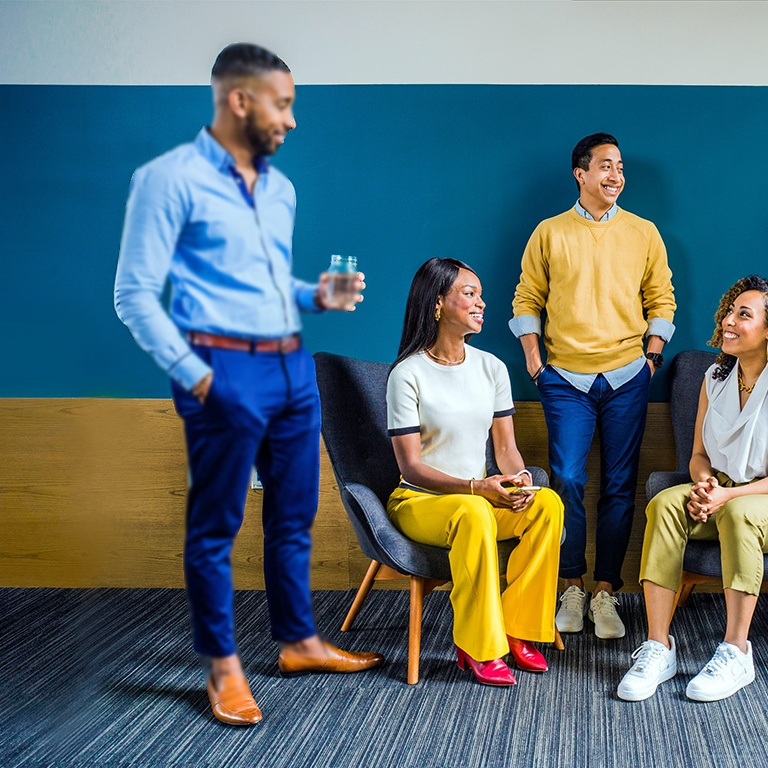
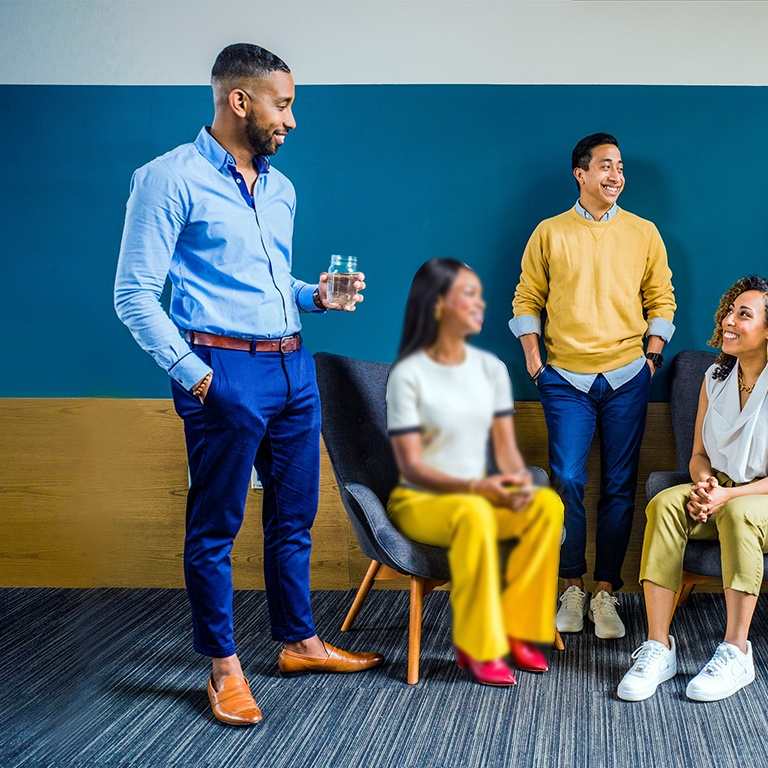
updated blending

diff --git a/base.py b/base.py
@@ -146,30 +146,32 @@ def pyramid(img_a, img_b, m):
     img1 = img_a[:size, :size].copy()
     img2 = img_b[:size, :size].copy()
 
-    # Create the mask
-
     mask = m[:size, :size].copy() / 255
 
-    num_levels = 5
+    num_levels = 7
 
-    # For image-1, calculate Gaussian and Laplacian
     gaussian_pyr_1 = gaussian_pyramid(img1, num_levels)
     laplacian_pyr_1 = laplacian_pyramid(gaussian_pyr_1)
-    # For image-2, calculate Gaussian and Laplacian
+
     gaussian_pyr_2 = gaussian_pyramid(img2, num_levels)
     laplacian_pyr_2 = laplacian_pyramid(gaussian_pyr_2)
-    # Calculate the Gaussian pyramid for the mask image and reverse it.
-    mask_pyr_final = gaussian_pyramid(mask, num_levels)
+
+    mask_pyr_final = gaussian_pyramid(cv.GaussianBlur(mask, (9,9), 9), num_levels)
+    # mask_pyr_final = gaussian_pyramid(mask, num_levels)
     mask_pyr_final.reverse()
+
+    # laplacian_pyr_1 = pyr(img1, num_levels)
+    # laplacian_pyr_2 = pyr(img2, num_levels)
+    # mask_pyr_final = gaussian_pyramid(mask, num_levels)
+    # mask_pyr_final.reverse()
+
     # Blend the images
     add_laplace = blend(laplacian_pyr_1, laplacian_pyr_2, mask_pyr_final)
-    # Reconstruct the images
     final = reconstruct(add_laplace)
-    # Save the final image to the disk
-    # cv2.imwrite('D:/downloads/pp2.jpg', final[num_levels])
 
     num = time.localtime(time.time()).tm_sec
     filename = 'blend_%s.jpg' % str(num)
+    print(filename)
     cv.imwrite('/Users/owner/Documents/GitHub/companion-detector/static/blending/%s' % filename, final[num_levels])
 
     return filename
@@ -179,6 +181,7 @@ def gaussian_pyramid(img, num_levels):
     lower = img.copy()
     gaussian_pyr = [lower]
     for i in range(num_levels):
+        lower = cv.GaussianBlur(lower, (13, 13), 13)
         lower = cv.pyrDown(lower)
         gaussian_pyr.append(np.float32(lower))
     return gaussian_pyr
@@ -193,6 +196,31 @@ def laplacian_pyramid(gaussian_pyr):
         size = (gaussian_pyr[i - 1].shape[1], gaussian_pyr[i - 1].shape[0])
         gaussian_expanded = cv.pyrUp(gaussian_pyr[i], dstsize=size)
         laplacian = np.subtract(gaussian_pyr[i - 1], gaussian_expanded)
+        laplacian_pyr.append(laplacian)
+    return laplacian_pyr
+
+
+def pyr(img, num_levels):
+    lower = img.copy()
+    smaller = img.copy()
+
+    gaussian_pyr = [lower]
+    pre_blur_pyr = [smaller]
+    for i in range(num_levels):
+        lower = cv.GaussianBlur(lower, (9, 9), 13)
+        lower = cv.pyrDown(lower)
+        smaller = cv.pyrDown(smaller)
+        gaussian_pyr.append(np.float32(lower))
+        pre_blur_pyr.append(np.float32(smaller))
+
+    laplacian_top = gaussian_pyr[-1]
+    num_levels = len(gaussian_pyr) - 1
+
+    laplacian_pyr = [laplacian_top]
+    for i in range(num_levels, 0, -1):
+        size = (gaussian_pyr[i - 1].shape[1], gaussian_pyr[i - 1].shape[0])
+        gaussian_expanded = cv.pyrUp(gaussian_pyr[i], dstsize=size)
+        laplacian = np.subtract(pre_blur_pyr[i - 1], gaussian_expanded)
         laplacian_pyr.append(laplacian)
     return laplacian_pyr
 
